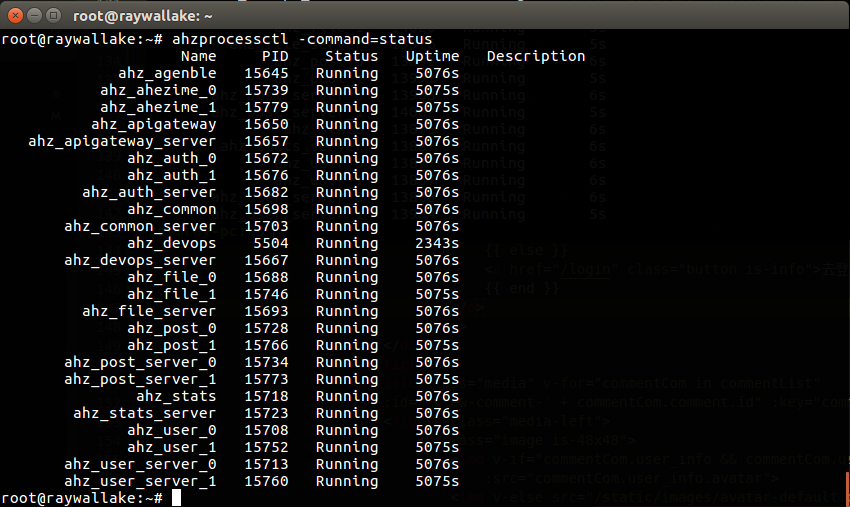
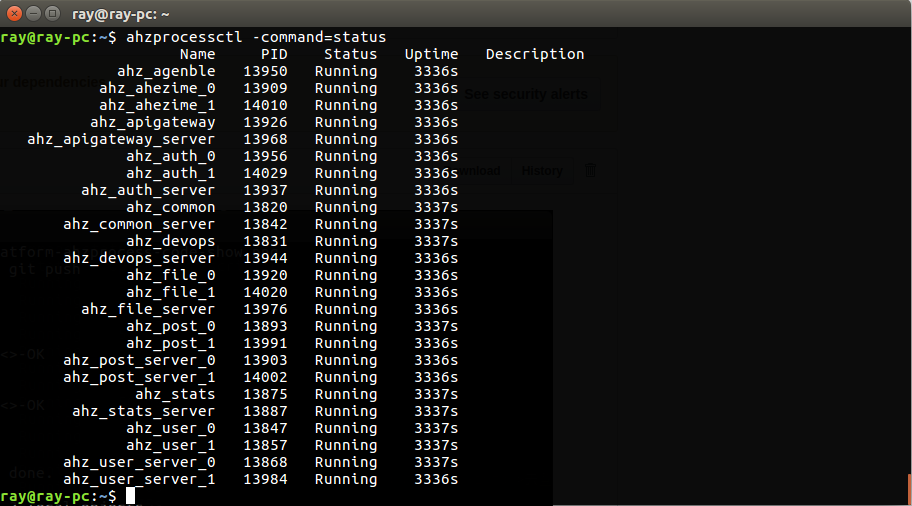
change

Changed region(s): [[0.0, 0.0, 1.0, 1.0], [0.9788, 0.919, 1.0, 1.0]]

diff --git a/_posts/2020-01-03-ahezime-intro.md b/_posts/2020-01-03-ahezime-intro.md
@@ -49,6 +49,13 @@ PC首页显示：
 
 Ahezime.com分前端网站和后端平台两部分。前端网站当前主要提供博客文章写作、社区互动和其他简单的信息查询。 后端平台主要提供用户的基本信息查看、修改和相应服务的复杂设置、分析，根据用户角色权限的不同决定用户可用的功能。后端平台尽量使用当前流行的新技术，使平台具备数据可视化，对繁杂的数据综合分析，进而做到化繁为简。
 
+#### 服务进程状态
+
+![https://rayxyz.github.io/assets/images/ahezime/ahezime-ahzprocess-system-service-status.png](https://rayxyz.github.io/assets/images/ahezime/ahezime-ahzprocess-system-service-status.png)
+
+为了实现服务进程生存周期的完全控制，自主研发ahzprocess服务进程管理工具。
+
+#### 代码
 
 #### 服务器状态监控
 ![https://rayxyz.github.io/assets/images/ahezime/ahezime-platform-hardware-status-monistoring-local.png](https://rayxyz.github.io/assets/images/ahezime/ahezime-platform-hardware-status-monistoring-local.png)
